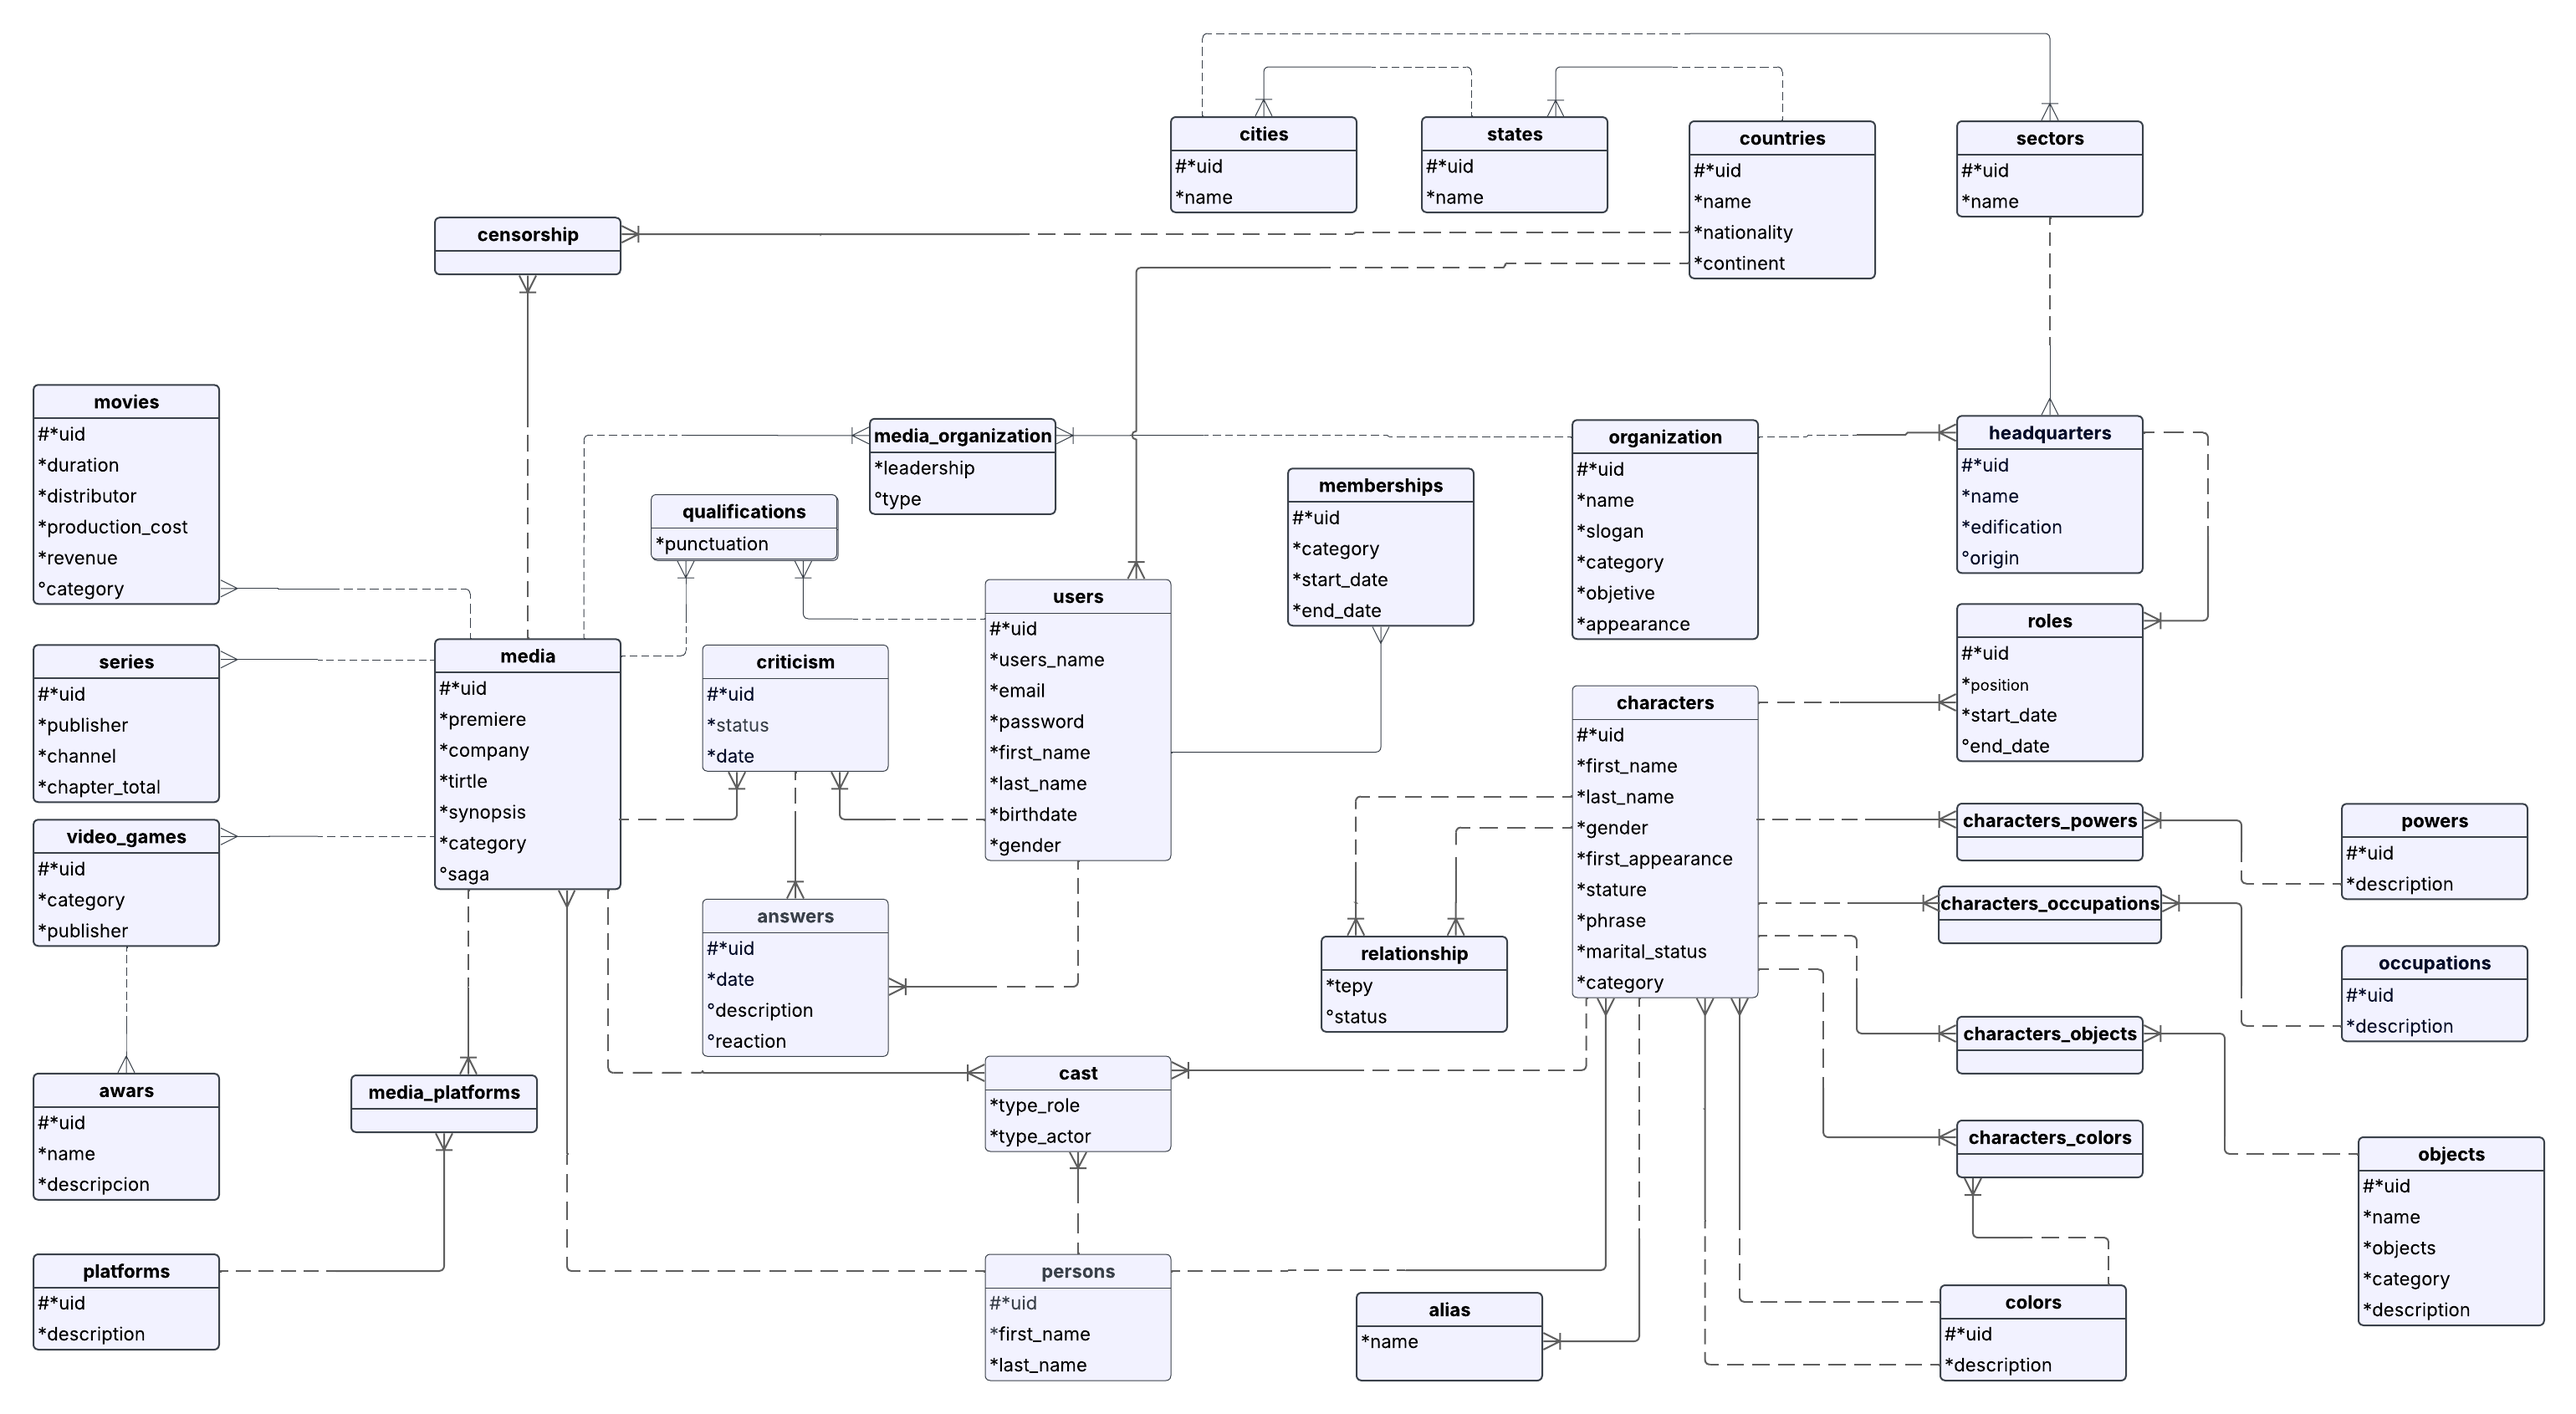
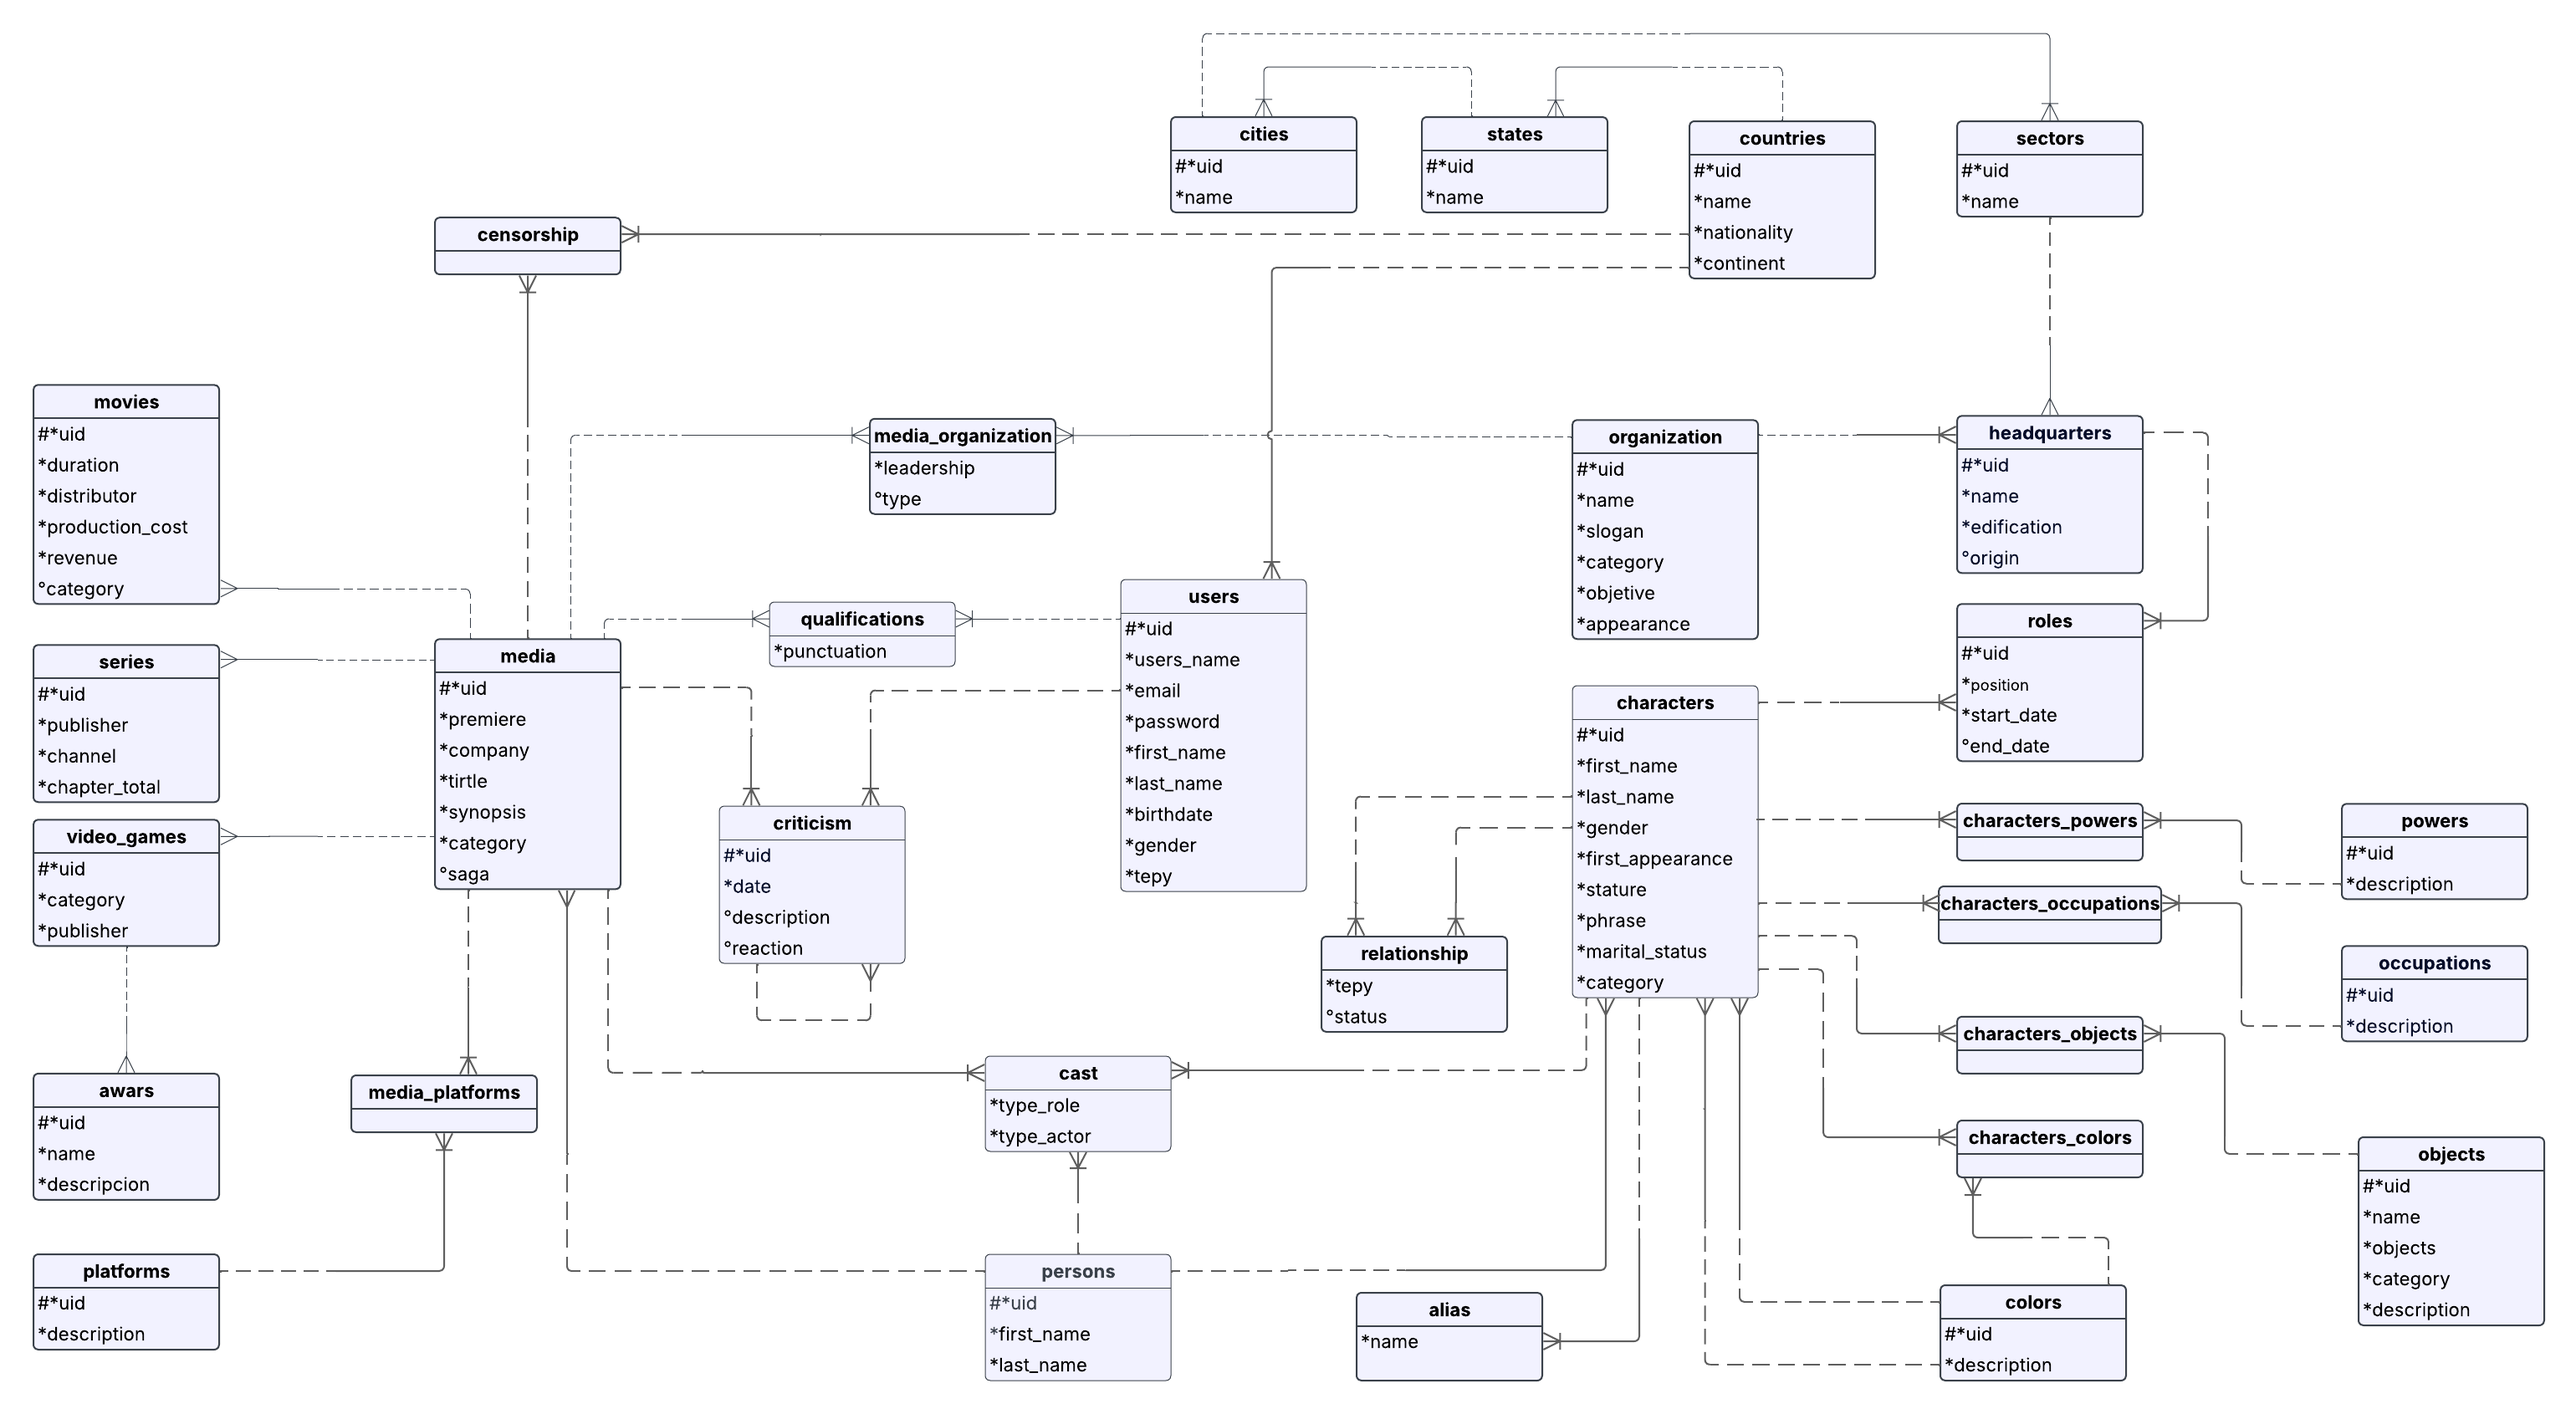
Model corrections

diff --git a/src/controllers/media/media.js b/src/controllers/media/media.js
@@ -1,0 +1,52 @@
+/*import media from '../../models/media/media.js';
+
+class Media {
+
+    async insert_media(req, res){
+        try{
+            const {
+                premiere, company, tirtle, synopsis, category, saga
+            } = req.body;
+
+            const new_media = await media.create({
+                premiere, company, tirtle, synopsis, category, saga
+            });
+
+            res.status(201).json(new_media);
+        }catch(error){
+            return res.status(500).json({
+                message: 'Internal Server Error (' + error.message + ')'
+            });
+        }
+    }
+
+
+    async update_media(req, res){
+        try{
+            const permission = 2; 
+            if(permission >= 2){
+                const {
+                    id_media, premiere, company, tirtle, synopsis, category, saga
+                } = req.body;
+    
+                const [cross_media] = await media.Update(
+                    { premiere, company, tirtle, synopsis, category, saga },
+                    { where: { id_media } }
+                )
+    
+                if (cross_media === 0) {
+                    return res.status(400).json({ message: 'Media update failed' });
+                }
+    
+                return res.status(200).json({ message: 'Media updated successfully' });
+            } else {
+                return res.status(403).json({ message: 'Permission denied'});
+            }
+        }catch(error){
+            return res.status(500).json({
+                messager: 'Internal server error (' + error.message + ')'
+            })
+        }
+    }
+};
+export default new Media();*/

diff --git a/src/models/customers/criticism.js b/src/models/customers/criticism.js
@@ -1,7 +1,7 @@
 import { sequelize } from "../../database/bd.js";
 import { DataTypes } from "sequelize";
-import { memberships } from "./memberships.js";
 import { media } from "../media/media.js";
+import { users } from "./users.js";
 
 export const criticism = sequelize.define( "criticism",{
         id_criticism:{
@@ -13,8 +13,8 @@ export const criticism = sequelize.define( "criticism",{
             type: DataTypes.INTEGER,
             allowNull: false,
             references:{
-                model: memberships,
-                key: 'id_memberships'
+                model: users,
+                key: 'id_users'
             }
         },
         fk_media_criticism:{
@@ -30,9 +30,20 @@ export const criticism = sequelize.define( "criticism",{
             allowNull: false,
             defaultValue: DataTypes.NOW
         },
-        status:{
+        description:{
             type: DataTypes.STRING(512),
             allowNull: false,
+        },
+        reaction:{
+            type: DataTypes.INTEGER,
+            validate:{
+                min: 1,
+                max: 7,
+            },
+        },
+        fk_criticim:{
+            type: DataTypes.INTEGER,
+            allowNull: true,
         }
     },
     {
@@ -43,3 +54,7 @@ export const criticism = sequelize.define( "criticism",{
         deletedAt: 'deleted_at',   
     }
 );
+
+criticism.hasMany(criticism, { as: 'replies', foreignKey: 'fk_criticism' });
+criticism.belongsTo(criticism, { as: 'parent', foreignKey: 'fk_criticism'});
+  

diff --git a/src/controllers/media/platforms.js b/src/controllers/media/platforms.js
@@ -1,4 +1,3 @@
-import { where } from "sequelize";
 import { platforms } from "../../models/media/platforms";
 
 export class platforms_methods {
@@ -18,7 +17,6 @@ export class platforms_methods {
     async get_platforms (req, res){
         try{
             const pag = parseInt(req.params.pag, 10) || 1;
-
             const platforms_list = await platforms.findAll({
                 limit: 10,
                 offset: (pag - 1) * 10 ,
@@ -34,20 +32,15 @@ export class platforms_methods {
     async update_platforms (req, res){
         try{
             const id = parseInt(req.params.id, 10) || 0;
-
             if (isNaN(id) || id <= 0 || id === null || id === undefined) {
                 return res.status(400).json({ message: 'Invalid ID' });
             }
-
             const { description } = req.body;    
             const platform = await platforms.findByPk(id_platforms);
-
             if (!platform) {
                 return res.status(404).json({ message: 'Platform not found' });
             }
-
             await platform.update({ description });
-
             res.status(200).json(platform);
         }catch (error) {
             return res.status(500).json({message: 'Internal Server Error'});

diff --git a/src/models/customers/qualifications.js b/src/models/customers/qualifications.js
@@ -1,15 +1,16 @@
-import { sequelize } from '../../database/bd.js';
 import { DataTypes } from 'sequelize';
-import { memberships } from "./memberships.js";
+import { sequelize } from '../../database/bd.js';
+import { users } from './users.js';
 import { media } from "../media/media.js";
 
+
 export const qualifications = sequelize.define('qualifications', {
-        fk_memberships_qualifications: {
+        fk_users_qualifications: {
             type: DataTypes.INTEGER,
             primaryKey: true,
             references: {
-                model: memberships,
-                key: 'id_memberships'
+                model: users,
+                key: 'id_users'
             }
         },
         fk_media_qualifications: {

diff --git a/src/middlewares/jwt.js b/src/middlewares/jwt.js
@@ -11,7 +11,7 @@ const __dirname = path.dirname(__filename);
 dotenv.config({ path: path.resolve(__dirname, '../.env') });
 
 class Token {
-    async generate_token(uid, user) {
+    async generate_token(uid, user, permission) {
         try {
             const secretKey = process.env.SECRET;
 
@@ -20,7 +20,7 @@ class Token {
             }
 
             return jwt.sign(
-                { id: uid, name: user },
+                { id: uid, name: user, permission: permission },
                 secretKey,                          
                 { expiresIn: '1h' }  
             );

diff --git a/src/models/customers/users.js b/src/models/customers/users.js
@@ -46,6 +46,15 @@ export const users = sequelize.define('users',
             type: DataTypes.CHAR(1),
             allowNull: false
         },
+        permission:{
+            type: DataTypes.INTEGER,
+            allowNull: false,
+            defaultValue: 1,
+            validate:{
+                min: 1,
+                max: 3
+            }
+        },
         countries_user:{
             type: DataTypes.INTEGER,
             allowNull: false,

diff --git a/src/index.js b/src/index.js
@@ -22,10 +22,8 @@ try {
         
     //customers
         await import ('./models/customers/users.js');
-        await import ('./models/customers/memberships.js');
         await import ('./models/customers/qualifications.js');
         await import ('./models/customers/criticism.js');
-        await import ('./models/customers/answers.js');
         
     //entertainment
         await import ('./models/entertainment/colors.js');

diff --git a/src/routes/media/media.js b/src/routes/media/media.js
@@ -1,0 +1,10 @@
+/*import { Router } from "express";
+import media_methods from "../../controllers/media/media.js";
+const custom_router = Router();
+
+custom_router.post("/marvel/dashboard/:id", media_methods.insert_media);
+custom_router.patch("/marvel/dashboard/:id", media_methods.update_media);
+//custom_router.get("/marvel/dashboard/:id");
+//custom_router.delete("/marvel/dashboard/:id");
+
+export default custom_router;*/

diff --git a/src/app.js b/src/app.js
@@ -1,5 +1,6 @@
 import express from 'express';
 import users_routers from './routes/customers/users.js'; 
+//import media_routers from './routes/media/media.js';
 export const app = express();
 
 // Middlewares
@@ -8,4 +9,7 @@ app.use(express.json());
 
 // Custom Router: Customers
     app.use(users_routers); 
+
+// Custom Router: Media
+    //app.use(media_routers);
 
